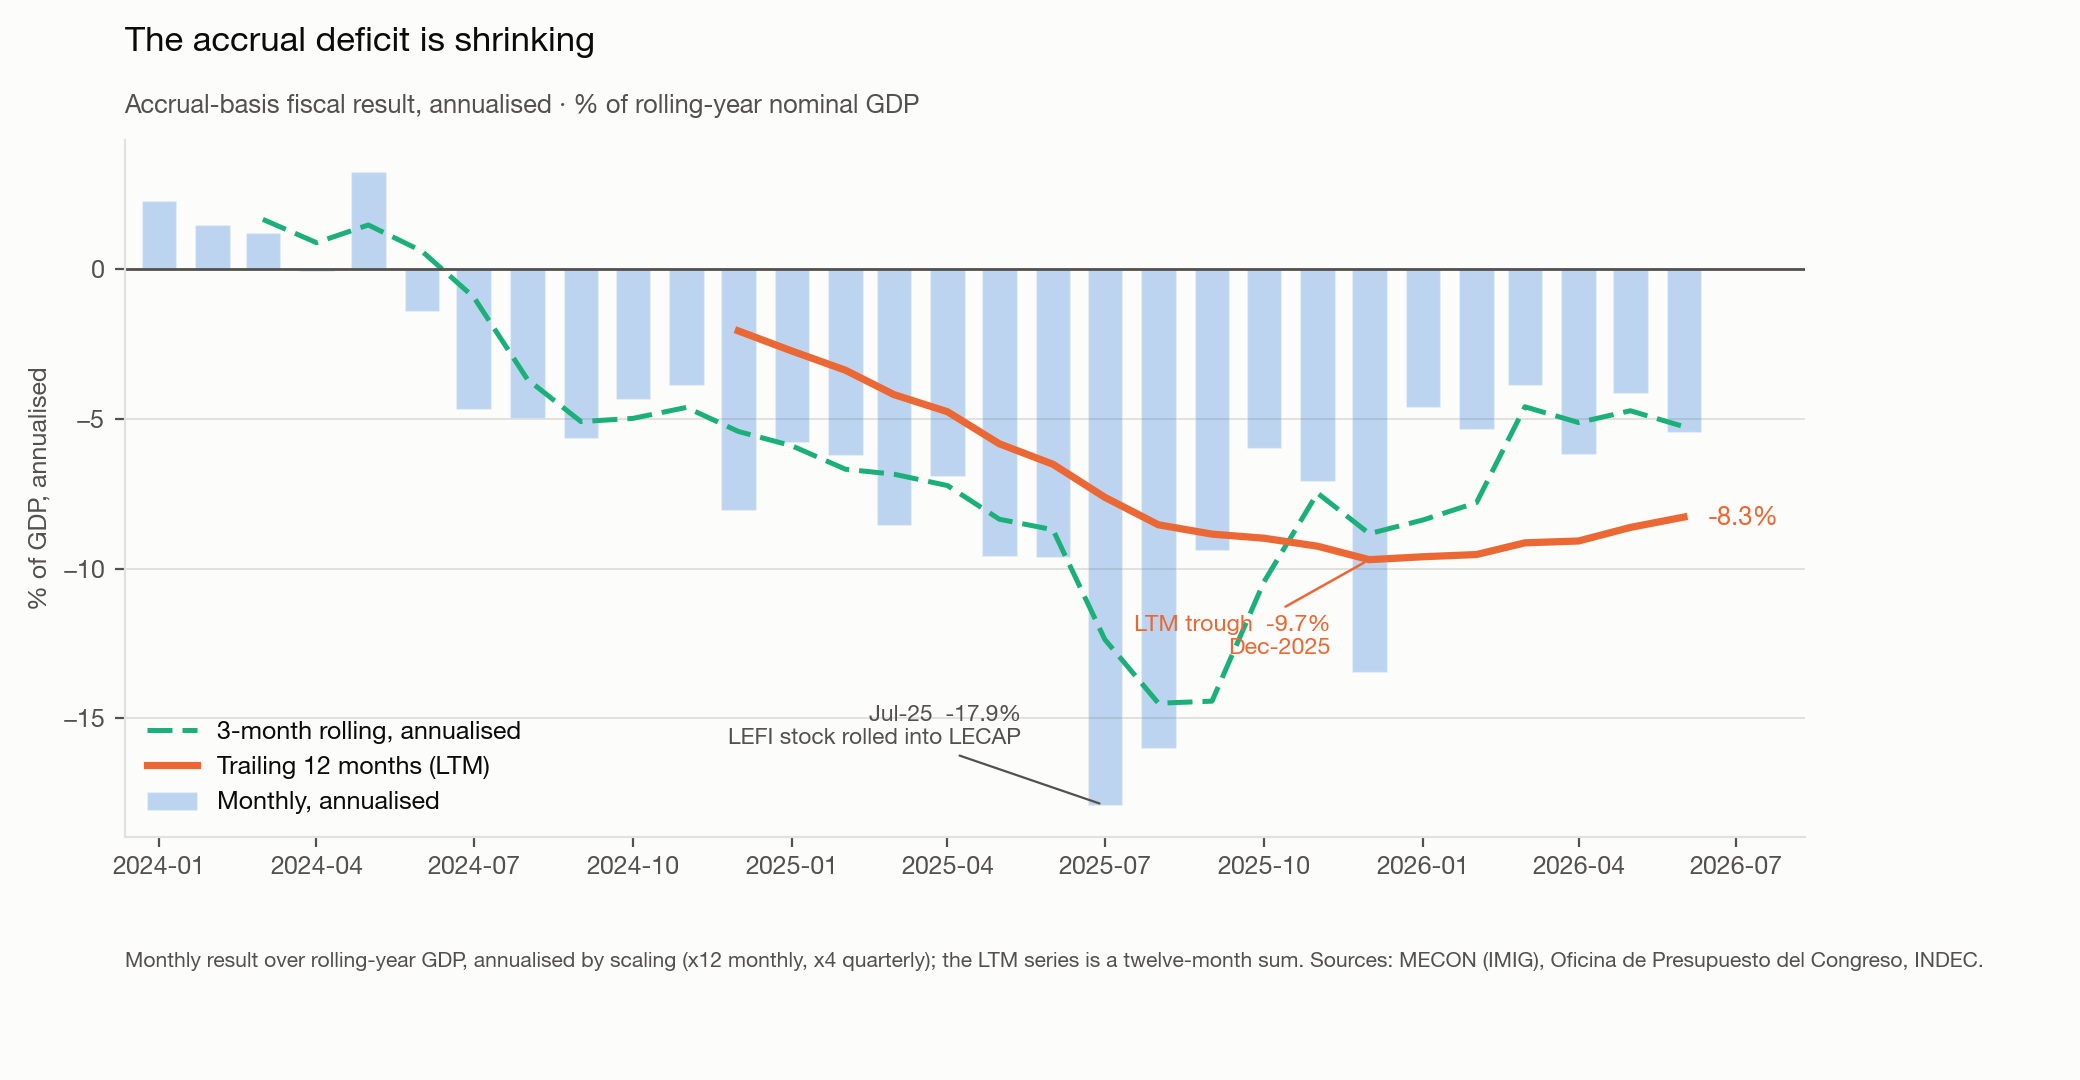
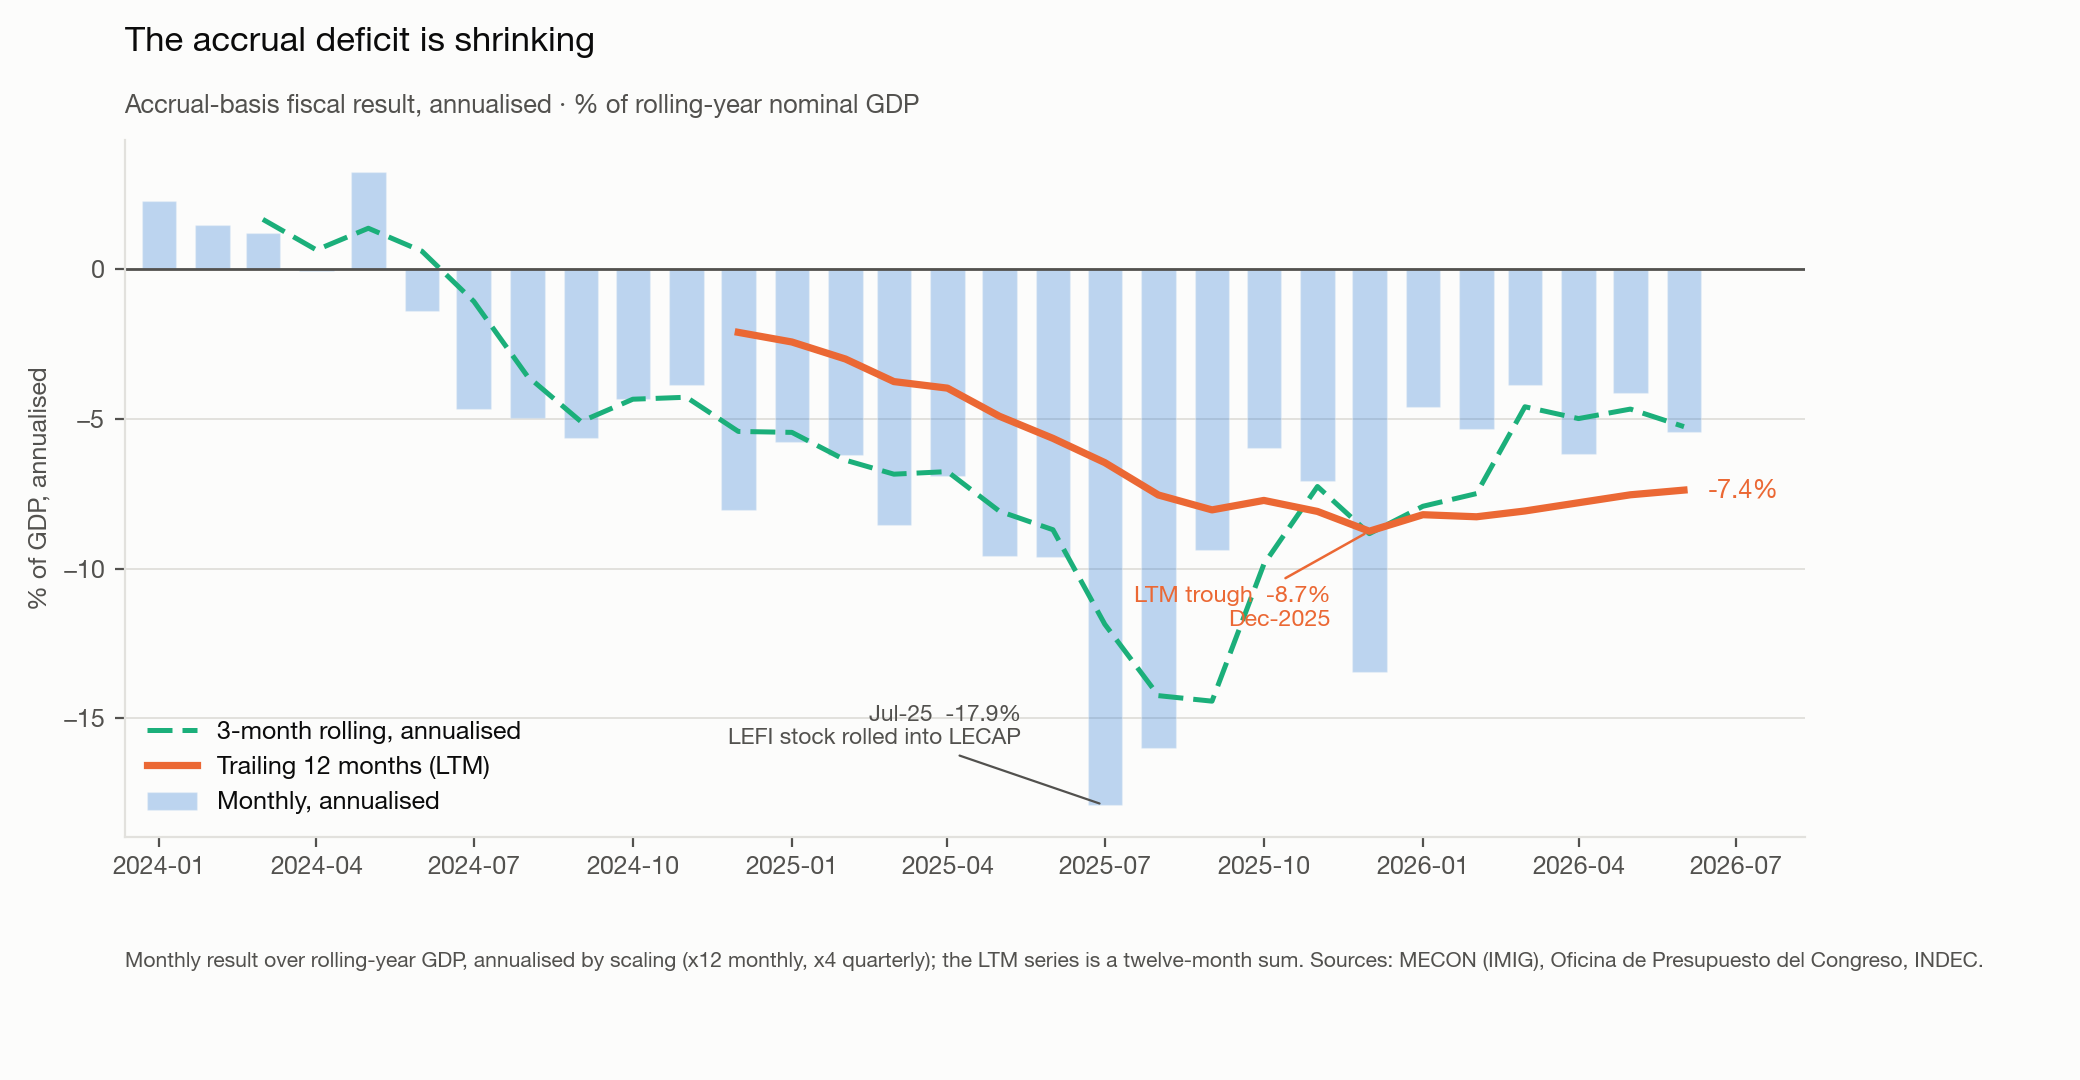
Correct LEFI name, monetary-base multiple, and chart 9 LTM method
- 'Letras de Liquidez del Tesoro' -> 'Letra Fiscal de Liquidez'
- 'almost four times the monetary base' -> 'almost three times' (peak 2.87x, Oct-2023)
- Chart 9 LTM/3m now sum flows and divide once by trailing-year GDP
- Caption trough 10% -> 8.7%, following the corrected chart

diff --git a/projects/argentina-zero-deficit.html b/projects/argentina-zero-deficit.html
@@ -55,11 +55,11 @@
     <h2>A bit of context</h2>
 
     <p>
-      A cornerstone of Milei's stabilization plan was the unwinding of the central bank's massive interest-bearing liabilities. In addition to the 3-4pp fiscal adjustment, part of the correction of state finances was the elimination of the quasi-fiscal deficit generated by the central bank. The BCRA, which itself issued pesos to finance the fiscal deficit directly, then re-absorbed those pesos by selling 'letras' to banks. To motivate banks to buy these bills, the BCRA offered yields exceeding deposit rates (and inflation rates), which required yet more peso issuance to cover. This quickly compounded and had created an enormous liability on the BCRA's balance sheet with immediate rollover risk. At the peak, interest bearing liabilities were almost four times the monetary base, interest paid on them by the central bank was 10% of GDP annualized. This sounds so incredibly stupid but sadly it is factual.
+      A cornerstone of Milei's stabilization plan was the unwinding of the central bank's massive interest-bearing liabilities. In addition to the 3-4pp fiscal adjustment, part of the correction of state finances was the elimination of the quasi-fiscal deficit generated by the central bank. The BCRA, which itself issued pesos to finance the fiscal deficit directly, then re-absorbed those pesos by selling 'letras' to banks. To motivate banks to buy these bills, the BCRA offered yields exceeding deposit rates (and inflation rates), which required yet more peso issuance to cover. This quickly compounded and had created an enormous liability on the BCRA's balance sheet with immediate rollover risk. At the peak, interest bearing liabilities were almost three times the monetary base, interest paid on them by the central bank was 10% of GDP annualized. This sounds so incredibly stupid but sadly it is factual.
     </p>
 
     <p>
-      The plan to dismantle this problem consisted of first guiding the monetary policy interest rate down to deep negative real territory, thereby endogenously reducing money creation for interest payments. And then to (i) sterilize all remaining interest-bearing liabilities, (ii) end Treasury financing via the central bank. Bank holdings of BCRA liabilities were exchanged for a new overnight treasury bill, the 'Letras de Liquidez del Tesoro' (LEFI). By moving the debt from the central bank's balance sheet to the governments balance sheet, the interest burden shifted to the fiscal accounts where it can be serviced with genuine budget resources. The swap was done at market terms, without defaulting on contracts and the banks voluntarily rolled into the new instruments.
+      The plan to dismantle this problem consisted of first guiding the monetary policy interest rate down to deep negative real territory, thereby endogenously reducing money creation for interest payments. And then to (i) sterilize all remaining interest-bearing liabilities, (ii) end Treasury financing via the central bank. Bank holdings of BCRA liabilities were exchanged for a new overnight treasury bill, the 'Letra Fiscal de Liquidez' (LEFI). By moving the debt from the central bank's balance sheet to the governments balance sheet, the interest burden shifted to the fiscal accounts where it can be serviced with genuine budget resources. The swap was done at market terms, without defaulting on contracts and the banks voluntarily rolled into the new instruments.
     </p>
 
     <p>
@@ -118,7 +118,7 @@
 
     <figure>
       <img src="../assets/argentina/9_accrual_runrate_annualised.png" alt="Accrual-basis fiscal result annualised, showing monthly, three-month rolling and trailing twelve-month series, with the deficit deepest in mid-2025 and improving through 2026." loading="lazy" width="2080" height="1080" style="max-width:100%;height:auto">
-      <figcaption>The accrual-based deficit has improved since July 2025. The capitalizing stock did not shrink, it grew 7% YTD, but the implied monthly rate dropped. Still, the difference is striking: 10% rolling yearly deficit trough vs a reported budget surplus.</figcaption>
+      <figcaption>The accrual-based deficit has improved since July 2025. The capitalizing stock did not shrink, it grew 7% YTD, but the implied monthly rate dropped. Still, the difference is striking: 8.7% rolling yearly deficit trough vs a reported budget surplus.</figcaption>
     </figure>
 
     <h2>What it did to the debt stock</h2>
